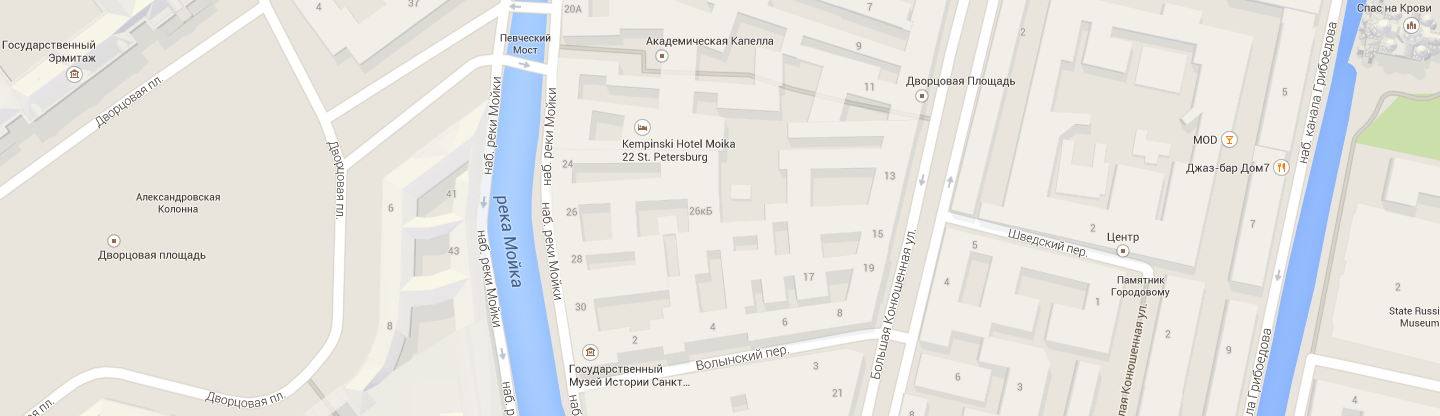
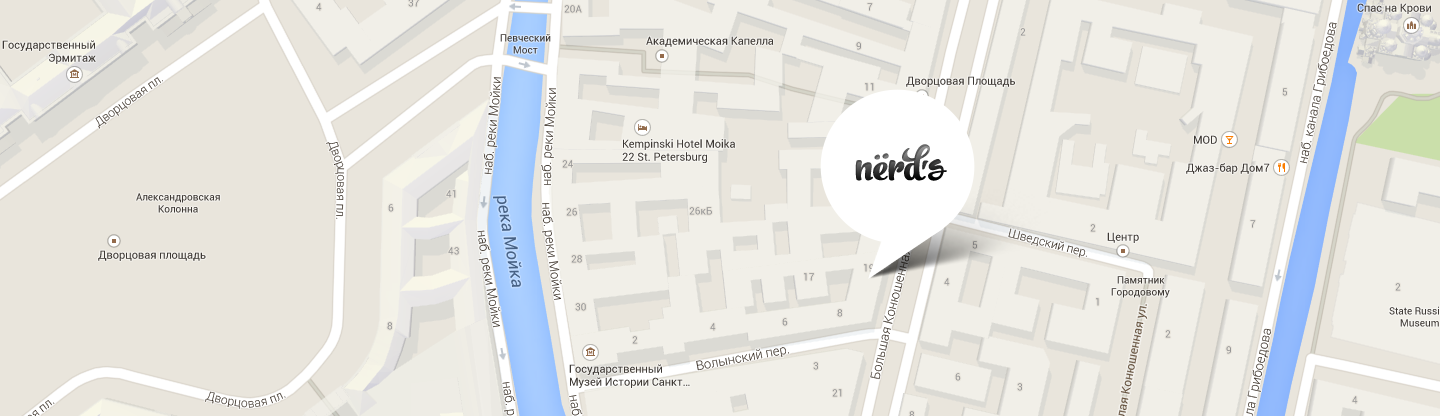
Склеила маркер и карту

Changed region(s): [[0.5625, 0.2188, 0.6875, 0.6562]]

diff --git a/index.html b/index.html
@@ -163,7 +163,6 @@
       <section>
        <h2>Как нас найти</h2>
        <img src="img/map.png" width="1440" height="416" alt="Карта">
-       <img src="img/map-marker.png" width="231" height="190" alt="Нёрдс">
       </section>
 
       <section>

diff --git a/catalog.html b/catalog.html
@@ -168,7 +168,6 @@
     <section>
        <h2>Как нас найти</h2>
        <img src="img/map.png" width="1440" height="416" alt="Карта">
-       <img src="img/map-marker.png" width="231" height="190" alt="Нёрдс">
     </section>
 
     <section>
